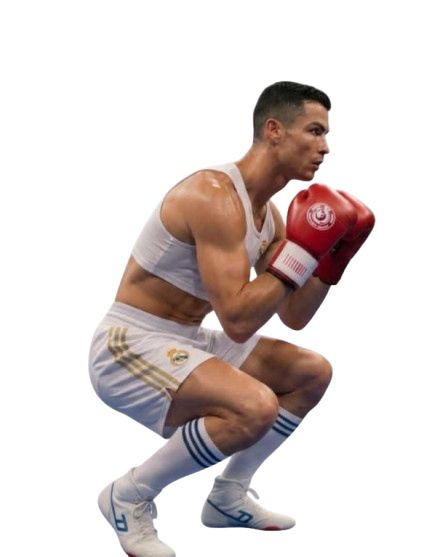
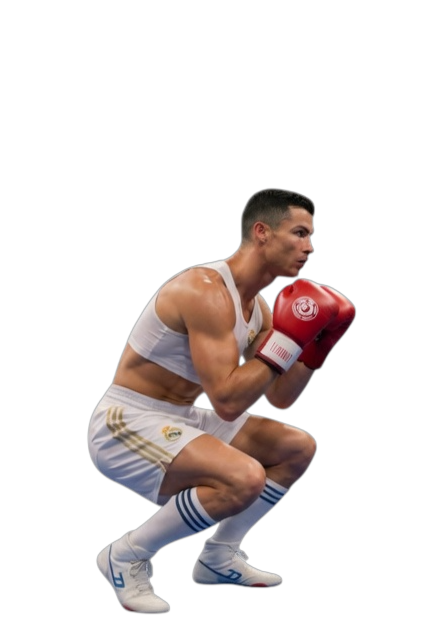
add hit image and logic

Changed region(s): [[0.184, 0.1221, 0.8585, 0.9767], [0.2146, 0.8241, 0.3986, 1.0]]

diff --git a/core/src/main/java/entity/Fighter.java b/core/src/main/java/entity/Fighter.java
@@ -22,6 +22,7 @@ public class Fighter {
     private Action currentState = Action.IDLE;
     private float stateTimer = 0;
     private final float ACTION_DURATION = 0.5f;
+    private final float HIT_DURATION = 0.5f;   // ← HIT sẽ hiển thị lâu hơn
 
     public Fighter(Constants.Side side, String folderPath, String mode) {
         this.side = side;
@@ -35,15 +36,14 @@ public class Fighter {
         loadTextures(folderPath);
     }
 
+    // Thêm biến này để nhớ trạng thái trước khi bị hit (dùng để chọn hit_stand hay hit_duck)
+    private Action previousState = IDLE;
+
+    // ==================== LOAD TEXTURES ====================
     private void loadTextures(String path) {
-        // Chỉ liệt kê những Action đã có ảnh chuẩn
+        // Load các action bình thường
         Action[] supportedActions = {
-            Action.IDLE,
-            Action.PUNCH,
-            Action.KICK,
-            Action.BLOCK,
-            Action.DUCK,
-            Action.SKILL
+            IDLE, PUNCH, KICK, BLOCK, DUCK, SKILL
         };
 
         for (Action action : supportedActions) {
@@ -51,6 +51,10 @@ public class Fighter {
             textures.put(action, new Texture(fileName));
         }
 
+        // Load riêng 2 ảnh hit
+        textures.put(HIT, new Texture(path + "/hit_stand.png"));   // hit khi đứng
+        // Nếu có hit_duck.png thì load thêm (nếu chưa có thì tạm comment)
+        // textures.put("HIT_DUCK", new Texture(path + "/hit_duck.png"));
     }
     private String getManualInput() {
         if (side == Constants.Side.LEFT) {
@@ -64,61 +68,65 @@ public class Fighter {
     }
 
     public void update(float delta) {
-        // --- PHẦN 1: XỬ LÝ ĐẦU VÀO (INPUT HANDLING) ---
+        // Input handling
         String actionStr = "NONE";
 
         if ("CAMERA_AI".equals(this.controlMode)) {
-            // Lấy lệnh từ AI (Dựa trên playerId)
             int playerId = (side == Constants.Side.LEFT) ? 1 : 2;
             actionStr = GestureReceiver.getInstance().getActionForPlayer(playerId);
         } else {
-            // Lấy lệnh từ Bàn phím (Ông giáo viết hàm getManualInput bên dưới nhé)
             actionStr = getManualInput();
         }
 
-        // Thực hiện hành động nếu có (Từ AI hoặc Bàn phím)
         if (!actionStr.equals("NONE")) {
             try {
                 Action inputAction = Action.valueOf(actionStr);
                 performAction(inputAction);
-            } catch (IllegalArgumentException e) {
-                // Bỏ qua nếu chuỗi không khớp Enum Action
-            }
+            } catch (IllegalArgumentException e) {}
         }
 
-        // --- PHẦN 2: LOGIC TRẠNG THÁI (STATE LOGIC - GIỮ NGUYÊN 100%) ---
-        // Tự động hồi chiêu (Reset trạng thái tấn công)
-        if (isAttacking()) {
+        // ==================== STATE TIMER LOGIC ====================
+        if (currentState == HIT) {
+            stateTimer += delta;
+            if (stateTimer >= HIT_DURATION) {
+                resetToIdle();
+            }
+        }
+        else if (isAttacking()) {
             stateTimer += delta;
             if (stateTimer >= ACTION_DURATION) {
                 resetToIdle();
             }
         }
 
-        // --- PHẦN 3: LOGIC TỰ ĐỘNG (AUTO LOGIC - GIỮ NGUYÊN 100%) ---
-        // Auto-Skill logic khi đủ Mana
-        if (stats.mana >= Constants.MAX_MANA && currentState == Action.IDLE) {
-            performAction(Action.SKILL);
+        // Auto Skill
+        if (stats.mana >= Constants.MAX_MANA && currentState == IDLE) {
+            performAction(SKILL);
             stats.mana = 0;
         }
     }
-
     public void performAction(Action action) {
-        // Nếu là hành động tấn công/di chuyển, chỉ cho phép khi đang đứng yên
-        if (action == Action.PUNCH || action == Action.KICK || action == Action.SKILL) {
-            if (this.currentState == Action.IDLE) {
+        // Không cho phép thay đổi trạng thái khi đang HIT
+        if (currentState == HIT) {
+            return;
+        }
+
+        if (action == PUNCH || action == KICK || action == SKILL) {
+            if (this.currentState == IDLE) {
                 this.currentState = action;
                 this.stateTimer = 0;
-                this.stats.hasHit = false; // Bắt đầu đòn mới, reset flag trúng đòn
+                this.stats.hasHit = false;
             }
         } else {
-            // Các trạng thái giữ phím (Block, Duck)
-            if (!isAttacking()) this.currentState = action;
+            // Block, Duck
+            if (!isAttacking() && currentState != HIT) {
+                this.currentState = action;
+            }
         }
     }
 
     private void resetToIdle() {
-        this.currentState = Action.IDLE;
+        this.currentState = IDLE;
         this.stateTimer = 0;
         this.stats.hasHit = false;
     }
@@ -126,7 +134,16 @@ public class Fighter {
     public void draw(SpriteBatch batch) {
         boolean flipX = (side == Constants.Side.RIGHT);
         Texture currentTex = textures.get(currentState);
-        if (currentTex == null) currentTex = textures.get(Action.IDLE);
+
+        // Nếu đang ở trạng thái HIT thì dùng hit_stand.png
+        if (currentState == HIT) {
+            currentTex = textures.get(HIT);
+        }
+
+        // Nếu không tìm thấy texture thì fallback về IDLE
+        if (currentTex == null) {
+            currentTex = textures.get(IDLE);
+        }
 
         batch.draw(currentTex, x, y, Constants.CHAR_SIZE, Constants.CHAR_SIZE,
             0, 0, currentTex.getWidth(), currentTex.getHeight(), flipX, false);
@@ -143,15 +160,44 @@ public class Fighter {
     public int getHp() { return stats.hp; }
     public float getMana() {return stats.mana; }
 
-    public void takeDamage(float damage) {
+    public void takeDamage(float damage, Action attackType) {
+        previousState = currentState;   // lưu trạng thái trước khi bị hit
+
+        boolean isHit = true;
+
+        // === LOGIC NÉ ĐÒN ===
+        if (attackType == PUNCH) {
+            if (currentState == BLOCK) {
+                isHit = false;                    // Block né được đấm
+            }
+        }
+        else if (attackType == KICK) {
+            if (currentState == DUCK) {
+                isHit = false;                    // Duck né được đá
+            }
+        }
+        else if (attackType == SKILL) {
+            isHit = true;                         // Skill không né được
+        }
+
+        if (!isHit) {
+            return;   // né thành công → không mất máu, không đổi trạng thái
+        }
+
+        // === BỊ TRÚNG ĐÒN ===
         stats.hp -= (int) damage;
+
         if (stats.hp <= 0) {
             stats.hp = 0;
             isDead = true;
             currentState = HIT;
-        } else {
-            currentState = HIT;
+            stateTimer = 0;
+            return;
         }
+
+        // Đổi sang trạng thái HIT
+        currentState = HIT;
+        stateTimer = 0;           // Reset timer để hit hiển thị đủ lâu
     }
 
     public boolean isDead() {

diff --git a/core/src/main/java/system/CombatSystem.java b/core/src/main/java/system/CombatSystem.java
@@ -41,13 +41,18 @@ public class CombatSystem {
         }
     }
 
-    private void applyDamage(Fighter attacker, Fighter target, float damage, Action type) {
-        target.getStats().takeDamage(damage);
-        attacker.getStats().hasHit = true; // Chốt chặn: Một lần ra đòn chỉ trúng 1 lần
+    private void applyDamage(Fighter attacker, Fighter target, float damage, Action attackType) {
+        // Gọi takeDamage trên Fighter (đã có logic né đòn bên trong)
+        target.takeDamage(damage, attackType);
 
-        if (type != Action.SKILL) attacker.getStats().addMana(1f);
+        attacker.getStats().hasHit = true;
 
-        // Kích hoạt hiệu ứng hình ảnh/âm thanh
+        // Hồi mana cho người tấn công (trừ skill)
+        if (attackType != Action.SKILL) {
+            attacker.getStats().addMana(Constants.MANA_GAIN_PER_HIT);
+        }
+
+        // Hiệu ứng + âm thanh
         effectManager.spawnHitEffect(target.getX() + 100, target.getY() + 100);
         soundManager.playHit();
     }
